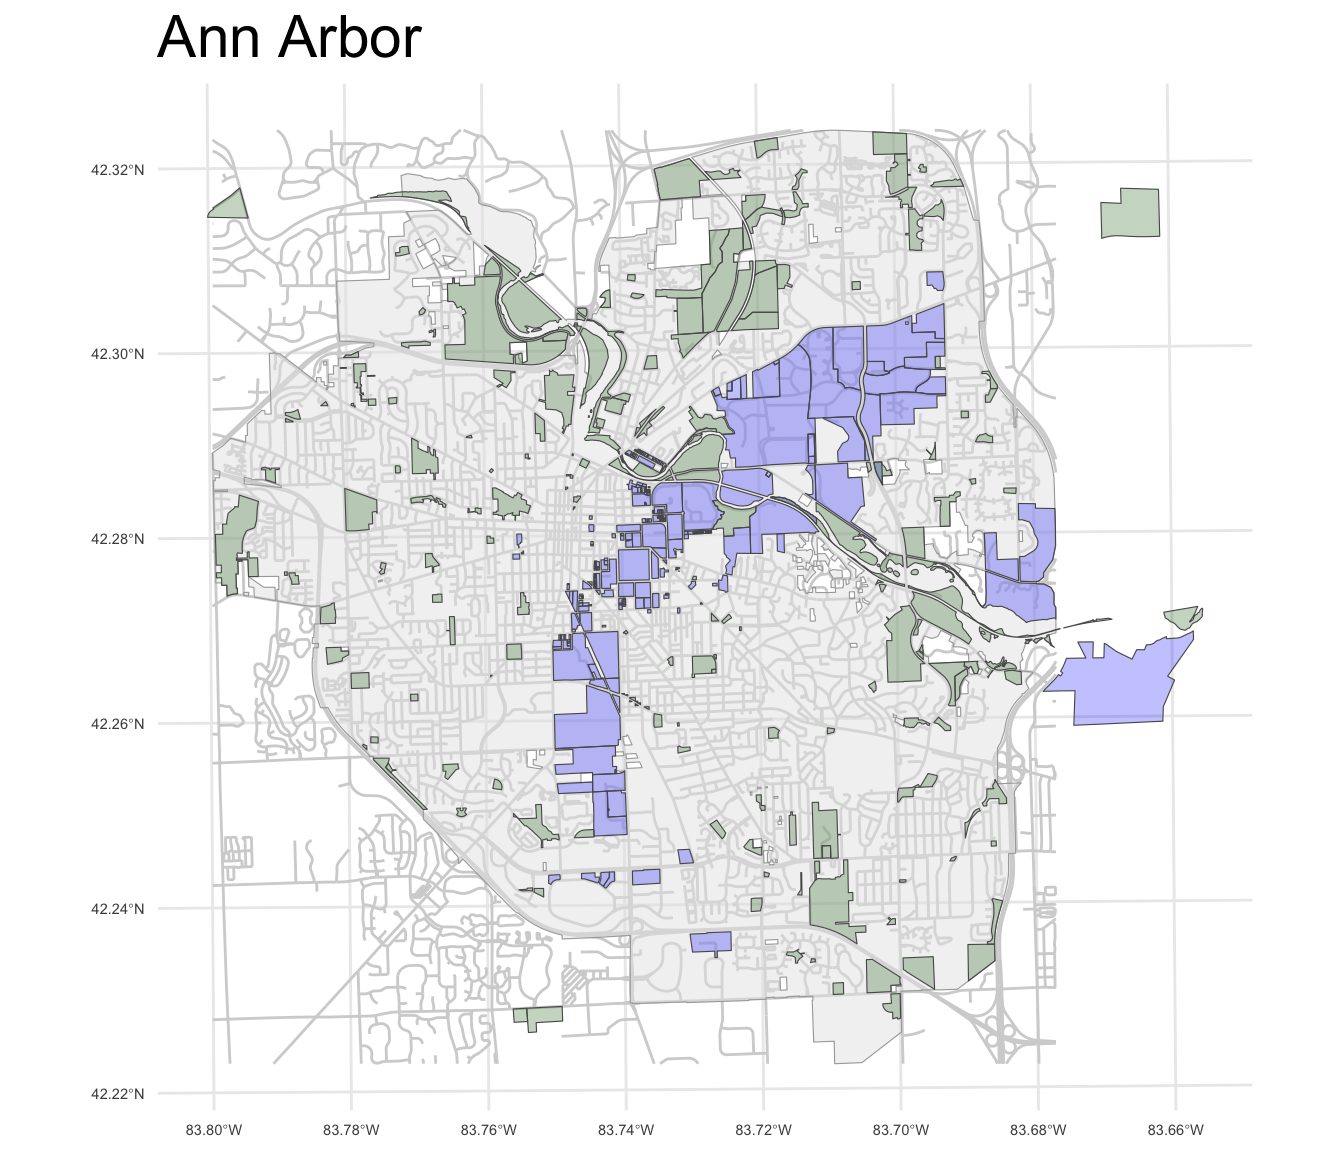
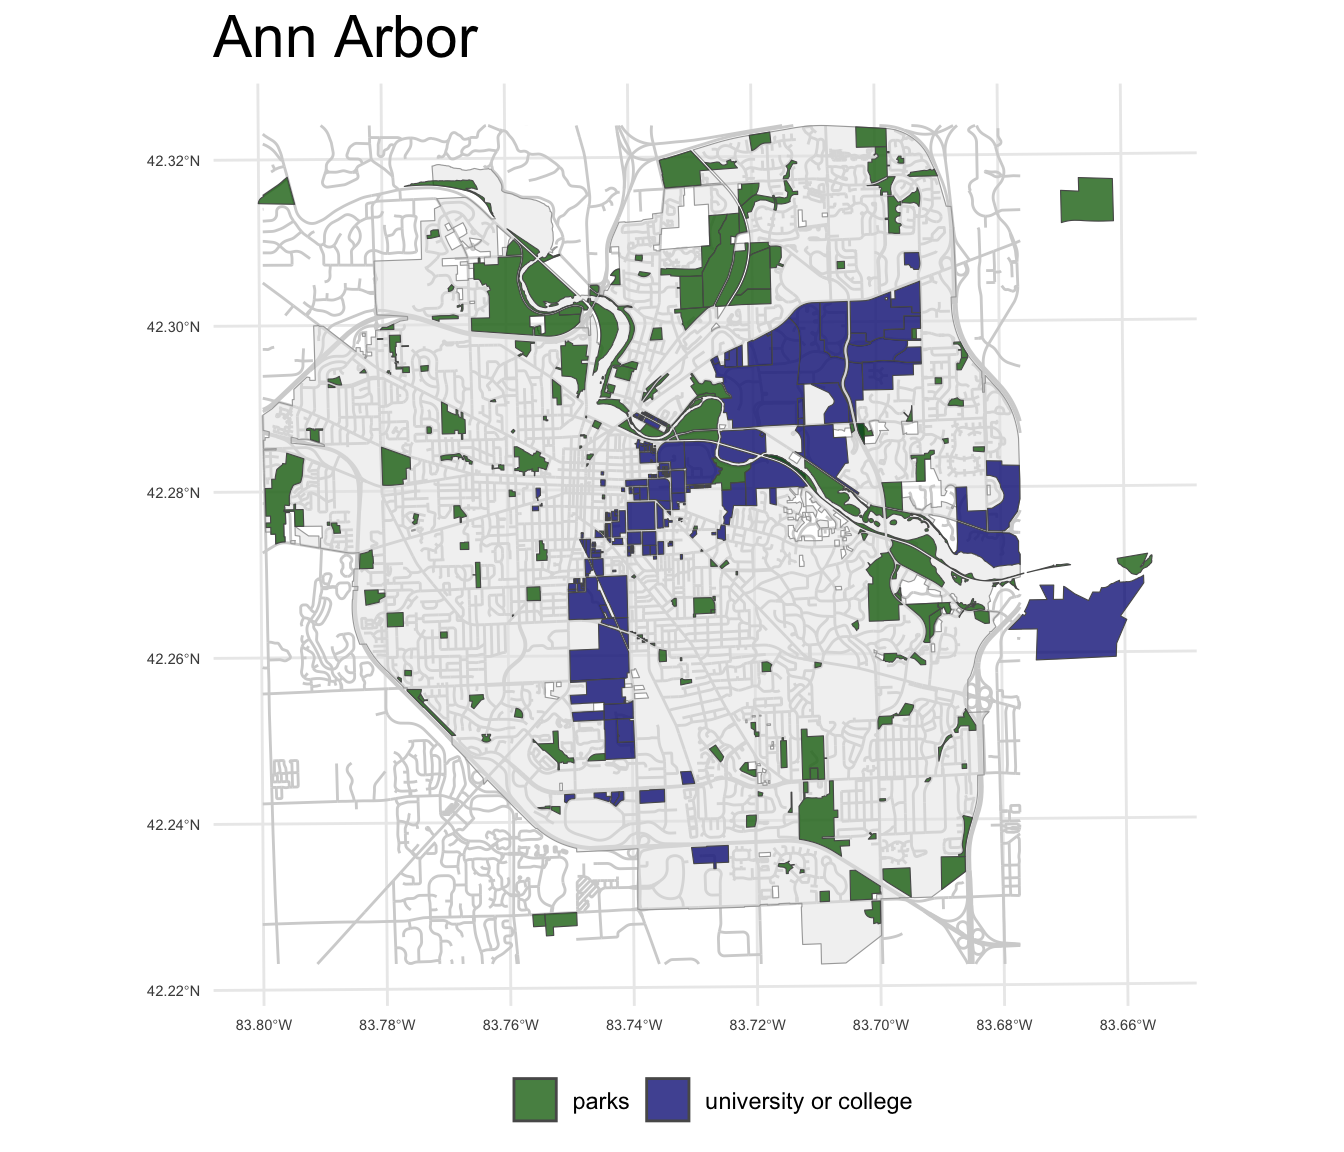
improve map

diff --git a/docs/ggplot-map.html b/docs/ggplot-map.html
@@ -460,21 +460,22 @@ all geometries</code></pre>
 <span id="cb6-5"><a href="#cb6-5" aria-hidden="true" tabindex="-1"></a>          <span class="at">color =</span> <span class="st">"lightgrey"</span>) <span class="sc">+</span></span>
 <span id="cb6-6"><a href="#cb6-6" aria-hidden="true" tabindex="-1"></a>  <span class="fu">geom_sf</span>(<span class="at">color =</span> <span class="st">"darkgrey"</span>, <span class="at">alpha =</span> .<span class="dv">5</span>) <span class="sc">+</span></span>
 <span id="cb6-7"><a href="#cb6-7" aria-hidden="true" tabindex="-1"></a>  <span class="fu">geom_sf</span>(<span class="at">data =</span> university, </span>
-<span id="cb6-8"><a href="#cb6-8" aria-hidden="true" tabindex="-1"></a>          <span class="at">fill =</span> <span class="st">"blue"</span>, </span>
-<span id="cb6-9"><a href="#cb6-9" aria-hidden="true" tabindex="-1"></a>          <span class="at">alpha =</span> .<span class="dv">25</span>) <span class="sc">+</span> </span>
+<span id="cb6-8"><a href="#cb6-8" aria-hidden="true" tabindex="-1"></a>          <span class="fu">aes</span>(<span class="at">fill =</span> <span class="st">"university or college"</span>), </span>
+<span id="cb6-9"><a href="#cb6-9" aria-hidden="true" tabindex="-1"></a>          <span class="at">alpha =</span> .<span class="dv">75</span>) <span class="sc">+</span> </span>
 <span id="cb6-10"><a href="#cb6-10" aria-hidden="true" tabindex="-1"></a>  <span class="fu">geom_sf</span>(<span class="at">data =</span> parks, </span>
-<span id="cb6-11"><a href="#cb6-11" aria-hidden="true" tabindex="-1"></a>          <span class="at">fill =</span> <span class="st">"darkgreen"</span>, </span>
-<span id="cb6-12"><a href="#cb6-12" aria-hidden="true" tabindex="-1"></a>          <span class="at">alpha =</span> .<span class="dv">25</span>) <span class="sc">+</span></span>
+<span id="cb6-11"><a href="#cb6-11" aria-hidden="true" tabindex="-1"></a>          <span class="at">alpha =</span> .<span class="dv">75</span>,</span>
+<span id="cb6-12"><a href="#cb6-12" aria-hidden="true" tabindex="-1"></a>          <span class="fu">aes</span>(<span class="at">fill =</span> <span class="st">"parks"</span>)) <span class="sc">+</span></span>
 <span id="cb6-13"><a href="#cb6-13" aria-hidden="true" tabindex="-1"></a>  <span class="co"># geom_sf(data = trees, </span></span>
 <span id="cb6-14"><a href="#cb6-14" aria-hidden="true" tabindex="-1"></a>  <span class="co">#         size = .1,</span></span>
 <span id="cb6-15"><a href="#cb6-15" aria-hidden="true" tabindex="-1"></a>  <span class="co">#         color = "darkgreen") +</span></span>
 <span id="cb6-16"><a href="#cb6-16" aria-hidden="true" tabindex="-1"></a>  <span class="fu">labs</span>(<span class="at">title =</span> <span class="st">"Ann Arbor"</span>) <span class="sc">+</span></span>
 <span id="cb6-17"><a href="#cb6-17" aria-hidden="true" tabindex="-1"></a>  <span class="fu">scale_color_viridis_d</span>() <span class="sc">+</span></span>
-<span id="cb6-18"><a href="#cb6-18" aria-hidden="true" tabindex="-1"></a>  <span class="fu">scale_fill_viridis_d</span>() <span class="sc">+</span></span>
-<span id="cb6-19"><a href="#cb6-19" aria-hidden="true" tabindex="-1"></a>  <span class="fu">theme_minimal</span>() <span class="sc">+</span></span>
-<span id="cb6-20"><a href="#cb6-20" aria-hidden="true" tabindex="-1"></a>  <span class="fu">theme</span>(<span class="at">plot.title =</span> <span class="fu">element_text</span>(<span class="at">size =</span> <span class="fu">rel</span>(<span class="dv">2</span>)), </span>
-<span id="cb6-21"><a href="#cb6-21" aria-hidden="true" tabindex="-1"></a>        <span class="at">axis.text =</span> <span class="fu">element_text</span>(<span class="at">size =</span> <span class="fu">rel</span>(.<span class="dv">5</span>)),</span>
-<span id="cb6-22"><a href="#cb6-22" aria-hidden="true" tabindex="-1"></a>        <span class="at">legend.position =</span> <span class="st">"bottom"</span>) </span></code><button title="Copy to Clipboard" class="code-copy-button"><i class="bi"></i></button></pre></div>
+<span id="cb6-18"><a href="#cb6-18" aria-hidden="true" tabindex="-1"></a>  <span class="fu">scale_fill_manual</span>(<span class="at">name=</span><span class="st">""</span>,</span>
+<span id="cb6-19"><a href="#cb6-19" aria-hidden="true" tabindex="-1"></a>                    <span class="at">values =</span> <span class="fu">c</span>(<span class="st">"darkgreen"</span>, <span class="st">"navy"</span>)) <span class="sc">+</span></span>
+<span id="cb6-20"><a href="#cb6-20" aria-hidden="true" tabindex="-1"></a>  <span class="fu">theme_minimal</span>() <span class="sc">+</span></span>
+<span id="cb6-21"><a href="#cb6-21" aria-hidden="true" tabindex="-1"></a>  <span class="fu">theme</span>(<span class="at">plot.title =</span> <span class="fu">element_text</span>(<span class="at">size =</span> <span class="fu">rel</span>(<span class="dv">2</span>)), </span>
+<span id="cb6-22"><a href="#cb6-22" aria-hidden="true" tabindex="-1"></a>        <span class="at">axis.text =</span> <span class="fu">element_text</span>(<span class="at">size =</span> <span class="fu">rel</span>(.<span class="dv">5</span>)),</span>
+<span id="cb6-23"><a href="#cb6-23" aria-hidden="true" tabindex="-1"></a>        <span class="at">legend.position =</span> <span class="st">"bottom"</span>) </span></code><button title="Copy to Clipboard" class="code-copy-button"><i class="bi"></i></button></pre></div>
 </details>
 <div class="cell-output-display">
 <div>
@@ -1033,7 +1034,7 @@ window.document.addEventListener("DOMContentLoaded", function (event) {
   </div>
 </nav>
 </div> <!-- /content -->
-<footer class="footer"><div class="nav-footer"><div class="nav-footer-center"><div class="toc-actions d-sm-block d-md-none"><ul><li><a href="https://github.com/agrogan1/mapping/issues/new" class="toc-action"><i class="bi bi-github"></i>Report an issue</a></li></ul></div></div></div></footer><script>var lightboxQuarto = GLightbox({"selector":".lightbox","closeEffect":"zoom","openEffect":"zoom","descPosition":"bottom","loop":false});
+<footer class="footer"><div class="nav-footer"><div class="nav-footer-center"><div class="toc-actions d-sm-block d-md-none"><ul><li><a href="https://github.com/agrogan1/mapping/issues/new" class="toc-action"><i class="bi bi-github"></i>Report an issue</a></li></ul></div></div></div></footer><script>var lightboxQuarto = GLightbox({"selector":".lightbox","descPosition":"bottom","loop":false,"closeEffect":"zoom","openEffect":"zoom"});
 window.onload = () => {
   lightboxQuarto.on('slide_before_load', (data) => {
     const { slideIndex, slideNode, slideConfig, player, trigger } = data;
